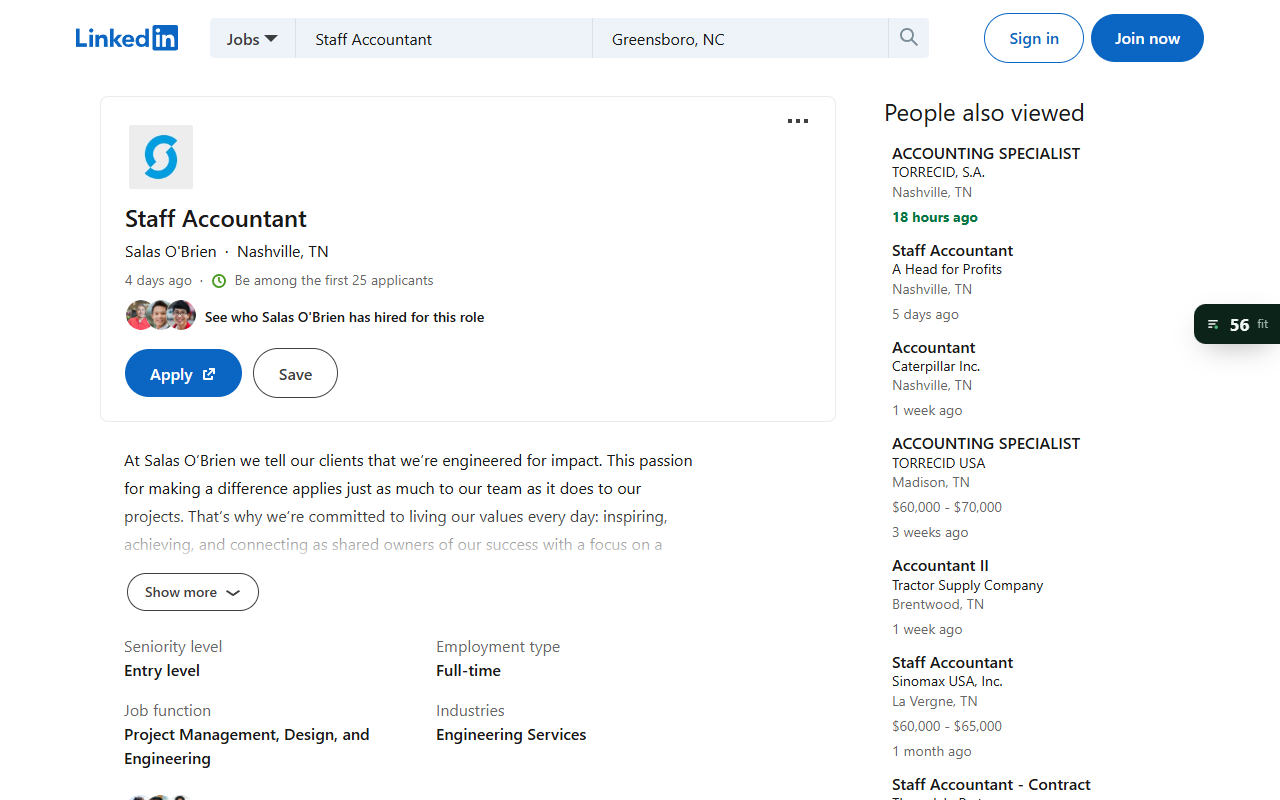
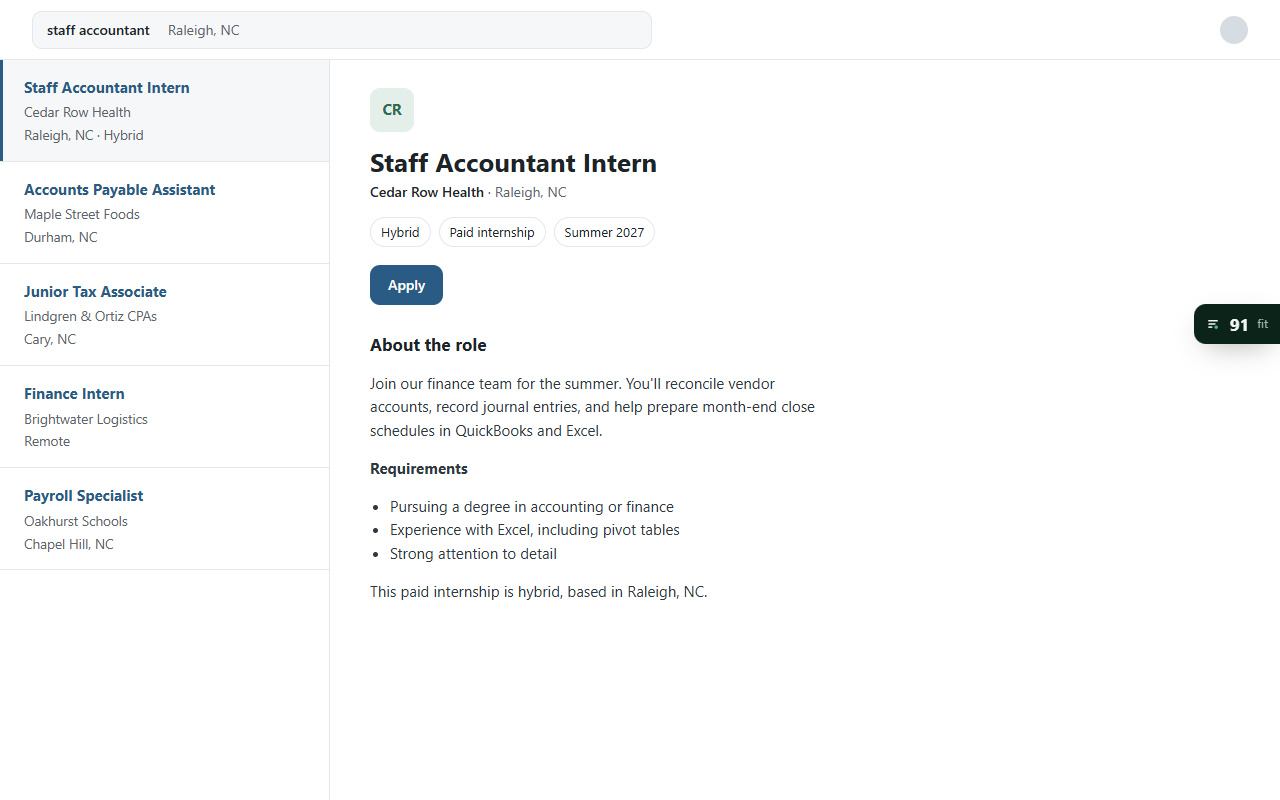
Check the extension in Edge and retake store screenshots on a made-up posting
scripts/check-extension.mjs takes --browser edge and passes every check in
the installed Microsoft Edge 154, in a fresh profile. The store
screenshots now come from scripts/store-screenshots.mjs on a made-up
posting with fictional employers and no real site's branding, and include
a graduation knockout. The panel's no-knockout line no longer repeats its
heading.

diff --git a/docs/extension-store/source/posting.html b/docs/extension-store/source/posting.html
@@ -1,0 +1,87 @@
+<!doctype html>
+<html lang="en">
+<head>
+<meta charset="utf-8">
+<title>Staff Accountant Intern at Cedar Row Health</title>
+<!--
+  A made-up job page for the store screenshots: a fictional employer and posting, and a
+  neutral layout that copies no real job site's name or branding. It uses the element
+  names the extension reads on Indeed, so the real badge scores it.
+  ?job=knockout swaps in a posting limited to 2026 graduates to show a knockout.
+-->
+<style>
+  :root { --ink: #1d2327; --muted: #5b646b; --line: #e3e7ea; --soft: #f5f7f8; --link: #2a5b84; }
+  * { box-sizing: border-box; }
+  body { margin: 0; background: #fff; color: var(--ink); font: 15px/1.55 system-ui, -apple-system, "Segoe UI", Roboto, sans-serif; }
+  .top { display: flex; align-items: center; gap: 16px; height: 60px; padding: 0 32px; border-bottom: 1px solid var(--line); }
+  .search { display: flex; flex: 1; max-width: 620px; height: 38px; border: 1px solid var(--line); border-radius: 10px; background: var(--soft); color: var(--muted); align-items: center; padding: 0 14px; font-size: 14px; }
+  .search b { color: var(--ink); font-weight: 500; margin-right: 18px; }
+  .dot { width: 28px; height: 28px; border-radius: 50%; background: #d6dde2; margin-left: auto; }
+  .wrap { display: grid; grid-template-columns: 330px 1fr; gap: 0; height: calc(100vh - 60px); }
+  .list { border-right: 1px solid var(--line); overflow: hidden; }
+  .card { padding: 16px 24px; border-bottom: 1px solid var(--line); }
+  .card.on { background: var(--soft); box-shadow: inset 3px 0 0 var(--link); }
+  .card h3 { margin: 0; font-size: 15px; color: var(--link); }
+  .card p { margin: 2px 0 0; color: var(--muted); font-size: 13.5px; }
+  .detail { padding: 28px 460px 28px 40px; overflow: hidden; }
+  .logo { width: 44px; height: 44px; border-radius: 10px; display: grid; place-items: center; background: #e4efe9; color: #2f6b52; font-weight: 700; }
+  h1 { margin: 14px 0 4px; font-size: 26px; line-height: 1.2; }
+  .meta { color: var(--muted); font-size: 14px; }
+  .company { color: var(--ink); font-weight: 600; }
+  .chips { display: flex; gap: 8px; margin: 14px 0 18px; }
+  .chips span { padding: 4px 10px; border: 1px solid var(--line); border-radius: 999px; font-size: 13px; }
+  .apply { display: inline-block; padding: 9px 18px; border-radius: 10px; background: var(--link); color: #fff; font-weight: 600; font-size: 14px; }
+  h2 { margin: 26px 0 8px; font-size: 17px; }
+  #jobDescriptionText p, #jobDescriptionText li { color: #2f383e; }
+  #jobDescriptionText ul { margin: 6px 0; padding-left: 20px; }
+</style>
+</head>
+<body>
+  <div class="top"><div class="search"><b>staff accountant</b> Raleigh, NC</div><div class="dot"></div></div>
+  <div class="wrap">
+    <div class="list">
+      <div class="card on"><h3 id="card-title">Staff Accountant Intern</h3><p id="card-company">Cedar Row Health</p><p id="card-place">Raleigh, NC · Hybrid</p></div>
+      <div class="card"><h3>Accounts Payable Assistant</h3><p>Maple Street Foods</p><p>Durham, NC</p></div>
+      <div class="card"><h3 id="other-title">Junior Tax Associate</h3><p id="other-company">Lindgren &amp; Ortiz CPAs</p><p id="other-place">Cary, NC</p></div>
+      <div class="card"><h3>Finance Intern</h3><p>Brightwater Logistics</p><p>Remote</p></div>
+      <div class="card"><h3>Payroll Specialist</h3><p>Oakhurst Schools</p><p>Chapel Hill, NC</p></div>
+    </div>
+    <div class="detail">
+      <div class="logo" id="logo">CR</div>
+      <h1 data-testid="jobsearch-JobInfoHeader-title" id="title">Staff Accountant Intern</h1>
+      <div class="meta"><span class="company" data-testid="inlineHeader-companyName" id="company">Cedar Row Health</span> · <span data-testid="inlineHeader-companyLocation" id="place">Raleigh, NC</span></div>
+      <div class="chips" id="chips"></div>
+      <span class="apply">Apply</span>
+      <h2>About the role</h2>
+      <div id="jobDescriptionText"></div>
+    </div>
+  </div>
+<script>
+  const JOBS = {
+    fit: {
+      title: "Staff Accountant Intern", company: "Cedar Row Health", logo: "CR", place: "Raleigh, NC", mode: "Hybrid",
+      chips: ["Hybrid", "Paid internship", "Summer 2027"], other: ["Junior Tax Associate", "Lindgren & Ortiz CPAs", "Cary, NC"],
+      body: `<p>Join our finance team for the summer. You'll reconcile vendor accounts, record journal entries, and help prepare month-end close schedules in QuickBooks and Excel.</p>
+        <p><b>Requirements</b></p>
+        <ul><li>Pursuing a degree in accounting or finance</li><li>Experience with Excel, including pivot tables</li><li>Strong attention to detail</li></ul>
+        <p>This paid internship is hybrid, based in Raleigh, NC.</p>`,
+    },
+    knockout: {
+      title: "Tax Associate Intern", company: "Lindgren & Ortiz CPAs", logo: "LO", place: "Cary, NC", mode: "Onsite",
+      chips: ["Onsite", "Paid internship", "Busy season 2027"], other: ["Staff Accountant Intern", "Cedar Row Health", "Raleigh, NC"],
+      body: `<p>Prepare individual and partnership tax returns, research federal tax questions, and support the tax team during busy season. You'll use tax software and Excel every day.</p>
+        <p><b>Qualifications</b></p>
+        <ul><li>Pursuing a bachelor's degree in accounting</li><li>Open to students graduating in 2026</li><li>Proficient in Excel</li></ul>
+        <p>This role is onsite in Cary, NC.</p>`,
+    },
+  };
+  const job = JOBS[new URLSearchParams(location.search).get("job") === "knockout" ? "knockout" : "fit"];
+  const fields = [["title", job.title], ["company", job.company], ["place", job.place], ["logo", job.logo], ["card-title", job.title], ["card-company", job.company],
+    ["card-place", `${job.place} · ${job.mode}`], ["other-title", job.other[0]], ["other-company", job.other[1]], ["other-place", job.other[2]]];
+  for (const [id, value] of fields) document.getElementById(id).textContent = value;
+  document.getElementById("chips").innerHTML = job.chips.map((c) => `<span>${c}</span>`).join("");
+  document.getElementById("jobDescriptionText").innerHTML = job.body;
+  document.title = `${job.title} at ${job.company}`;
+</script>
+</body>
+</html>

diff --git a/extension/sites.js b/extension/sites.js
@@ -433,7 +433,7 @@
       ? `<ul>${r.knockouts
           .map((k) => `<li class="ko ${k.status === "knockout" ? "out" : ""}"><span class="ko-icon" aria-hidden="true">${k.status === "knockout" ? "✕" : "?"}</span><div><b>${esc(k.label)}.</b> <span>${esc(k.reason)}</span></div></li>`)
           .join("")}</ul>`
-      : '<p class="ok">None found: graduation date, work authorization, location, and start date all check out.</p>';
+      : '<p class="ok">Graduation date, work authorization, location, and start date all check out.</p>';
     const rows = r.components
       .map(
         (c) => `<li class="row"><div class="row-top"><span>${esc(c.label)}</span><span>${c.points} of ${c.max}</span></div>

diff --git a/docs/PLAN.md b/docs/PLAN.md
@@ -43,7 +43,7 @@ Live check signed in to LinkedIn and Handshake (the owner signed in; the agent r
 - Handshake's search page has its own `h1` "Jobs", which the old fallback would have taken as the title. The badge now reads the job pane (`right-content`, or `job-details-page` on a job's own page): title, employer, place ("Onsite, based in Bedford, TX" becomes Bedford, TX; several places keep the first), At a glance (which carries "US work authorization required" for the knockout check), the description, and the listed qualifications, without Handshake's profile-match lines or AI summary. Handshake shows only about 450 of 1,800 characters until More is clicked and keeps no full copy in the page, so the panel says the score uses part of the description and rescores about 400ms after More. The extension doesn't click it or call Handshake's private data API.
 - New fixtures (`linkedin-2026.html`, and `handshake-job.html` rebuilt on the live structure) keep these in the check, which passes: badges in 258 to 309ms on LinkedIn and Indeed, Handshake 1.2 to 1.4s including its fixture's 700ms render, and a cached revisit in 13ms. 772 tests, typecheck, lint.
 
-Still for the owner: load the zip in Edge once, and decide whether the store screenshots may show a real employer's LinkedIn posting.
+Edge: `node scripts/check-extension.mjs --browser edge` loads the unpacked extension in the installed Microsoft Edge 154 (fresh profile) and every check passes. Store screenshots were retaken on a made-up posting with fictional employers and no real site's branding (`docs/extension-store/source/posting.html`, `scripts/store-screenshots.mjs`), including one with a graduation knockout. Publishing is the only step left for the owner.
 
 ## September 29 new-task discovery across careers
 

diff --git a/docs/extension-store/LISTING.md b/docs/extension-store/LISTING.md
@@ -1,6 +1,6 @@
 # Chrome Web Store listing (draft)
 
-Publishing is the owner's decision. This is the copy to paste when that happens. The same text works for the Edge Add-ons store.
+Publishing is the owner's decision. This is the copy to paste when that happens. The same text works for the Edge Add-ons store; the extension passes the full check in Microsoft Edge 154 (`node scripts/check-extension.mjs --browser edge`).
 
 ## Name
 
@@ -56,9 +56,10 @@ https://proofline-beta.vercel.app/privacy (its "Browser extension" section cover
 
 ## Screenshots (1280 by 800, in this folder)
 
-1. `1-badge.png`: a LinkedIn job with the badge showing a score.
+1. `1-badge.png`: a job posting with the badge showing a score.
 2. `2-panel.png`: the open panel: knockouts, then the score math, then Open in Proofline.
-3. `3-signed-out.png`: the "Sign in to see your fit" badge.
-4. `4-panel-dark.png`: the panel in dark mode.
+3. `3-knockout.png`: a posting for 2026 graduates, with the graduation knockout listed first.
+4. `4-signed-out.png`: the "Sign in to see your fit" badge.
+5. `5-panel-dark.png`: the panel following the device's dark mode.
 
-They were taken on a public LinkedIn job page with a synthetic development profile. Retake them before submitting if the posting has closed, and decide whether you want a real employer's listing in store screenshots.
+They use the real extension on a made-up posting (`source/posting.html`): fictional employers, and a plain layout with no real job site's name or branding. Scores come from a synthetic development profile. Retake them with `node scripts/store-screenshots.mjs` (needs `npm run dev`) after changing the badge or panel.

diff --git a/extension/README.md b/extension/README.md
@@ -35,7 +35,8 @@ The extension can send requests only to the origins in `host_permissions` (the b
 
 ## Develop
 
-- Load `extension/` unpacked from `chrome://extensions` with Developer mode on. Tick "Use a local dev server" in the popup to connect to `localhost:3000`.
+- Load `extension/` unpacked from `chrome://extensions` (or `edge://extensions`) with Developer mode on.
+- `node scripts/check-extension.mjs` runs every badge check against the fixtures in Playwright's Chromium; add `--browser edge` to run it in the installed Microsoft Edge (passes on Edge 154) in a fresh profile. Tick "Use a local dev server" in the popup to connect to `localhost:3000`.
 - Manual form check: serve `tests/fixtures/extension-form.html`, run `page-scripts.js` in its console, call `extractPosting()` and `fillForm(profile)`. Expect 7 fields filled and the company, employer, GitHub, sponsorship, gender, prefilled, and hidden fields left alone.
 - After changing anything here, run `npm run extension:build`. It renders the icons from `app/icon.svg` and rebuilds `public/proofline-extension.zip`, which the Connect page offers for download.
 
